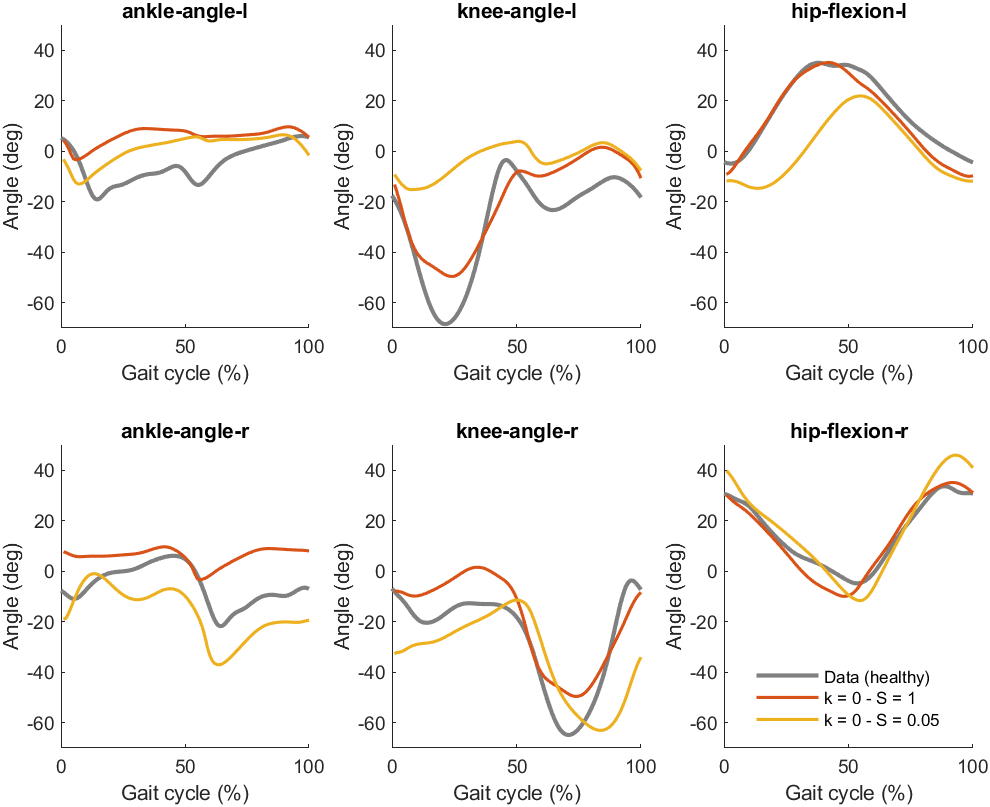
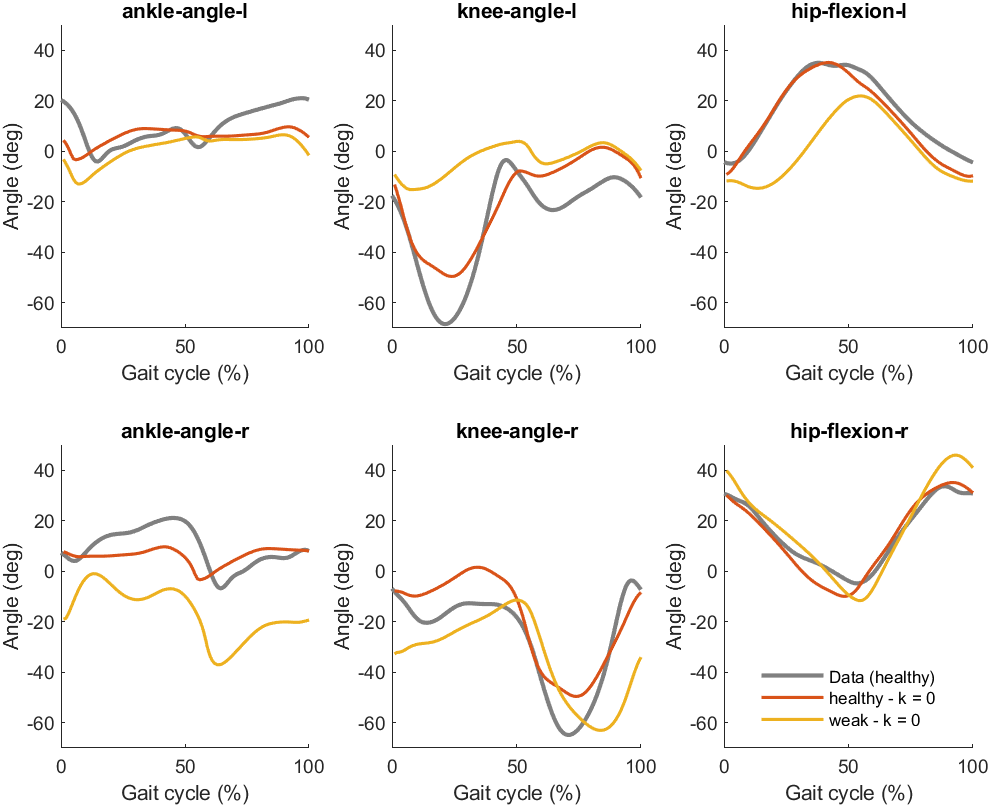
updated Fig

diff --git a/Sx Foot drop case/Plotting/plot_data.m b/Sx Foot drop case/Plotting/plot_data.m
@@ -36,8 +36,8 @@ hsr              = unique(hsr);
 hsr(diff(hsr)<5) = [];
 
 
-Ajoint(1,1,:) = (mean(interpolate_to_percgaitcycle(    data(trial).Link_Model_Based.l_ank_angle(:,1),  hsr, 201),2,'omitnan'));
-Ajoint(1,2,:) = (mean(interpolate_to_percgaitcycle(    data(trial).Link_Model_Based.r_ank_angle(:,1),  hsr, 201),2,'omitnan'));
+Ajoint(1,1,:) = (mean(interpolate_to_percgaitcycle(    data(trial).Link_Model_Based.l_ank_angle(:,1),  hsr, 201),2,'omitnan')) + 15;
+Ajoint(1,2,:) = (mean(interpolate_to_percgaitcycle(    data(trial).Link_Model_Based.r_ank_angle(:,1),  hsr, 201),2,'omitnan')) + 15;
 
 Ajoint(2,1,:) =   mean(interpolate_to_percgaitcycle(    data(trial).Link_Model_Based.l_kne_angle(:,1),  hsr, 201),2,'omitnan');
 Ajoint(2,2,:) =   mean(interpolate_to_percgaitcycle(    data(trial).Link_Model_Based.r_kne_angle(:,1),  hsr, 201),2,'omitnan');

diff --git a/Sx Foot drop case/Plotting/compare_devices.m b/Sx Foot drop case/Plotting/compare_devices.m
@@ -27,7 +27,14 @@ for k = 1:length(vs)
     
     % get TA strength
     TA_strength = model_info.muscle_info.parameters(9).muscle_strength;
-    txt = ['k = ', num2str(k_ankle), ' - S = ', num2str(TA_strength)];
+   
+    if TA_strength == .05
+        txt_append = 'weak - '; 
+    else
+        txt_append = 'healthy - ';
+    end
+    
+    txt = [txt_append, 'k = ', num2str(k_ankle)];
     
     is = [8 6 4 9 7 5];
     
@@ -56,6 +63,6 @@ filename = which('compare_devices');
 folder = filename(1:end-18);
 cd(folder);
 
-% exportgraphics(gcf,'Fig.png')
+exportgraphics(gcf,'Fig.png')
 
 
